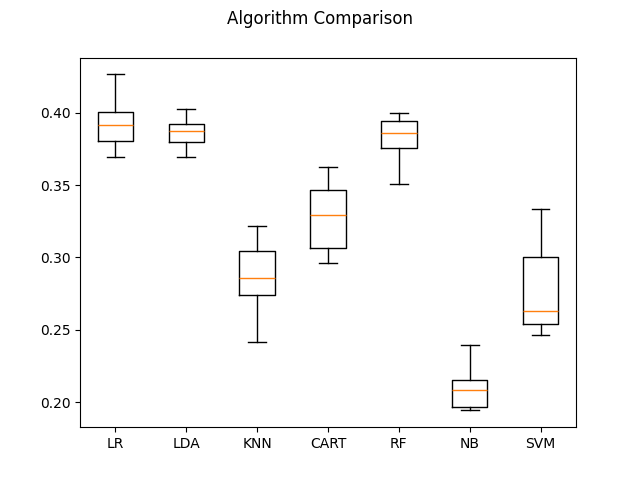
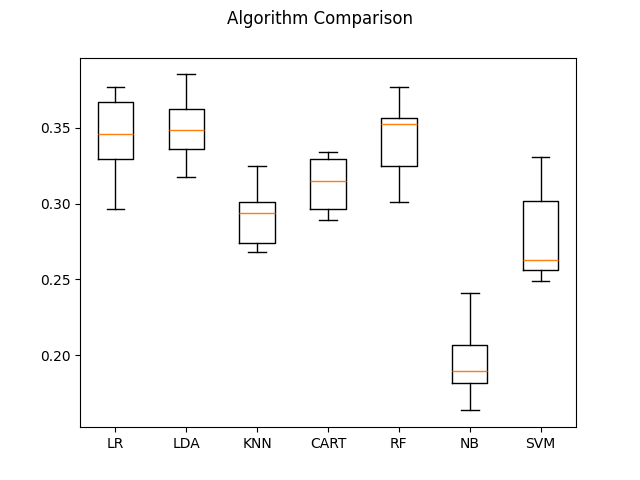
v3.1 regressor ad classification bug fix

diff --git a/regression_prediction.py b/regression_prediction.py
@@ -2,10 +2,12 @@ from pathlib import Path
 import pandas as pd
 from sklearn.model_selection import cross_val_score 
 from sklearn.metrics import classification_report 
-from sklearn.tree import DecisionTreeClassifier
 from sklearn.ensemble import RandomForestRegressor
-from sklearn.ensemble import RandomForestClassifier
-from sklearn.linear_model import LogisticRegression
+from sklearn.linear_model import LinearRegression
+from sklearn.tree import DecisionTreeRegressor
+from sklearn.neighbors import KNeighborsRegressor
+
+from sklearn import svm
 from numpy import set_printoptions 
 from sklearn.feature_selection import SelectKBest 
 from sklearn.feature_selection import chi2 
@@ -15,12 +17,6 @@ from matplotlib import pyplot
 from sklearn.model_selection import train_test_split 
 from sklearn.model_selection import KFold 
 from sklearn.model_selection import cross_val_score 
-from sklearn.linear_model import LogisticRegression 
-from sklearn.tree import DecisionTreeClassifier 
-from sklearn.neighbors import KNeighborsClassifier 
-from sklearn.discriminant_analysis import LinearDiscriminantAnalysis 
-from sklearn.naive_bayes import GaussianNB 
-from sklearn.svm import SVC
 
 pd.set_option("display.max_columns", None)
 
@@ -33,7 +29,7 @@ print(merged_df.columns)
 # Prepare data for classification
 print("Preparing data for classification...")
 
-merged_df.drop(columns=["Department", "Object Name", "Title", "Object Begin Date", "Object End Date", "Medium", "Dimensions", "Century_binary", "Century_short"], inplace=True)
+merged_df.drop(columns=["Department", "Object Name", "Title", "Object End Date", "Medium", "Dimensions", "Century", "Century_binary", "Century_short"], inplace=True)
 #merged_df = merged_df.filter(regex='^(Object ID|Colour_|Century)', axis=1)
 print(merged_df.columns)
 """
@@ -42,7 +38,7 @@ for c in merged_df.columns:
     print("----")
     print(counts)
 """
-
+"""
 century_counts = merged_df["Century"].value_counts()
 century_list = []
 for century, count in century_counts.items():
@@ -55,7 +51,7 @@ print(merged_df.columns )
 century_counts = merged_df["Century"].value_counts()
 print("Century Counts:")
 print(century_counts)
-
+"""
 # Define color groups based on common web color names
 color_groups = {
     'whites': ['white', 'snow', 'ivory', 'linen', 'beige', 'aliceblue', 'ghostwhite', 
@@ -103,17 +99,17 @@ for group_name in color_groups.keys():
 print(merged_df.columns)
 # Now you can drop the individual color columns and keep only the groups
 object_id_col = merged_df[["Object ID"]]
-centur_col = merged_df[["Century"]]
-temp_df = merged_df = merged_df.drop(columns=["Object ID", "Century"])
+centur_col = merged_df[["Object Begin Date"]]
+temp_df = merged_df = merged_df.drop(columns=["Object ID", "Object Begin Date"])
 group_columns = [col for col in temp_df.columns if col.startswith('ColorGroup_')]
 other_columns = [col for col in temp_df.columns if not col.startswith('Colo')]
 df = pd.concat([object_id_col, temp_df[other_columns], temp_df[group_columns], centur_col], axis=1)
 print(df.columns)
-
+"""
 names = df.columns.tolist()
 array = df.values
-X = array[:, 2:-1]  # Features (excluding 'Object ID' and 'Century')
-Y = array[:, -1]    # Target variable (last column, 'Century')
+X = array[:, 2:-1]  # Features (excluding 'Object ID' and 'Object Begin Date')
+Y = array[:, -1]    # Target variable (last column, 'Object Begin Date')
 test_size = 0.1
 seed = 7
 
@@ -139,28 +135,26 @@ print("Selected Features:")
 for i, feature in enumerate(selected_features):
     print(f"{i+1}. {feature}")
 
-df2 = df.filter(items=["Object ID"] + selected_features + ["Century"], axis=1)
+df2 = df.filter(items=["Object ID"] + selected_features + ["Object Begin Date"], axis=1)
 print(df2.head())
 print(df2.columns)
+"""
 
-
-names = df2.columns.tolist()
-array = df2.values
-X = array[:, 2:-1]  # Features (excluding 'Object ID' and 'Century')
-Y = array[:, -1]    # Target variable (last column, 'Century')
+names = df.columns.tolist()
+array = df.values
+X = array[:, 2:-1]  # Features (excluding 'Object ID' and 'Object Begin Date')
+Y = array[:, -1]    # Target variable (last column, 'Object Begin Date')
 test_size = 0.1
 seed = 7
 
 
 X_train, X_test, Y_train, Y_test = train_test_split(X, Y, test_size=test_size, random_state=seed)
 models = [] 
-models.append(('LR', LogisticRegression(solver='liblinear'))) 
-models.append(('LDA', LinearDiscriminantAnalysis())) 
-models.append(('KNN', KNeighborsClassifier())) 
-models.append(('CART', DecisionTreeClassifier())) 
-models.append(('RF', RandomForestClassifier()))
-models.append(('NB', GaussianNB())) 
-models.append(('SVM', SVC())) 
+models.append(('SVR', svm.SVR())) 
+models.append(('RFR', RandomForestRegressor())) 
+models.append(('LnR', LinearRegression()))
+models.append(('KNN', KNeighborsRegressor()))
+models.append(('DTR', DecisionTreeRegressor()))
 # evaluate each model in turn 
 results = [] 
 names = [] 
@@ -173,12 +167,12 @@ for name, model in models:
     names.append(name) 
     msg = "%s: %f (%f)" % (name, cv_results.mean(), cv_results.std()) 
     print(msg) 
-
+"""
     model.fit(X_train, Y_train) 
     predicted = model.predict(X_test) 
     report = classification_report(Y_test, predicted, zero_division=0)
     classification_results.append([name, report])
-
+"""
 
 # boxplot algorithm comparison 
 fig = pyplot.figure()  
@@ -188,9 +182,10 @@ pyplot.boxplot(results)
 ax.set_xticklabels(names)  
 pyplot.show()
 
-
+"""
 print("Classification Reports:")
 for model_name, rpt in classification_results:
     print(f"Model: {model_name}")
     print(rpt)
     print("="*50)
+"""
